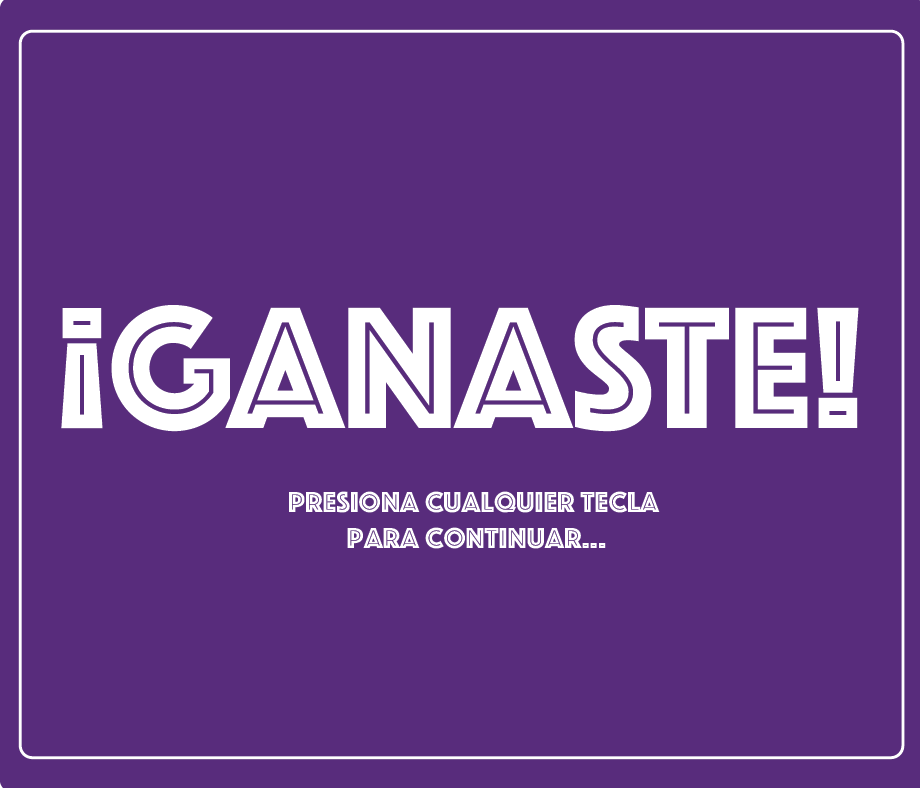
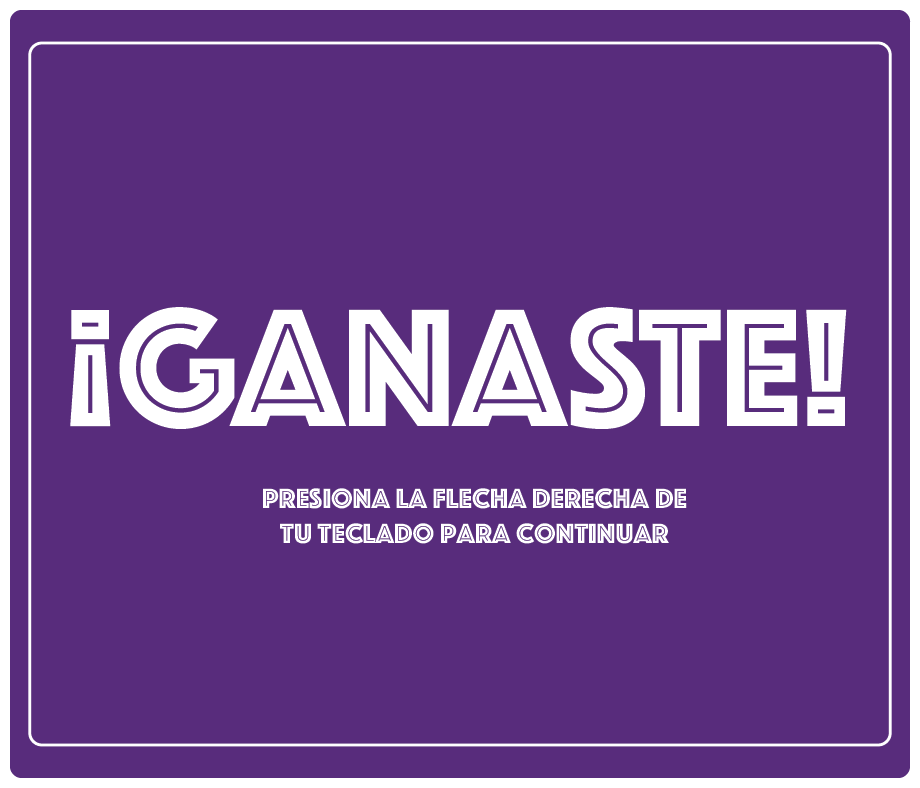
yippy kay yay MF

Changed region(s): [[0.0, 0.0, 1.0, 1.0], [0.2739, 0.6091, 0.7609, 0.7005]]

diff --git a/Proyecto_Final/Flood/src/Flood/SidePanel.java b/Proyecto_Final/Flood/src/Flood/SidePanel.java
@@ -40,6 +40,17 @@ public class SidePanel extends JPanel implements MouseListener {
     private Image imaImagenPausa;
     private Image imaImagenLevelUp;
     private Image imaImagenWonGame;
+    
+    //instrucciones
+    private Image imaInst1;
+    private Image imaInst2;
+    private Image imaInst3;
+    private Image imaInst4;
+    private Image imaInst5;
+    private Image imaInst6;
+    
+    
+    
 
     //Variables booleanas que indican si un botón fue presionado
     private boolean bHelp;
@@ -158,6 +169,26 @@ public class SidePanel extends JPanel implements MouseListener {
 
         imaImagenWonGame = Toolkit.getDefaultToolkit().getImage(this.getClass()
                 .getResource("Images/sidePanel/YouWon.png"));
+        
+        //imagen de instrucciones
+        
+        imaInst1 = Toolkit.getDefaultToolkit().getImage(this.getClass()
+                .getResource("Images/sidePanel/Instrucciones/1.png"));
+        
+        imaInst2 = Toolkit.getDefaultToolkit().getImage(this.getClass()
+                .getResource("Images/sidePanel/Instrucciones/2.png"));
+        
+        imaInst3 = Toolkit.getDefaultToolkit().getImage(this.getClass()
+                .getResource("Images/sidePanel/Instrucciones/3.png"));
+        
+        imaInst4 = Toolkit.getDefaultToolkit().getImage(this.getClass()
+                .getResource("Images/sidePanel/Instrucciones/4.png"));
+        
+        imaInst5 = Toolkit.getDefaultToolkit().getImage(this.getClass()
+                .getResource("Images/sidePanel/Instrucciones/5.png"));
+        
+        imaInst6 = Toolkit.getDefaultToolkit().getImage(this.getClass()
+                .getResource("Images/sidePanel/Instrucciones/6.png"));
     }
 
     /** creaBases
@@ -231,6 +262,13 @@ public class SidePanel extends JPanel implements MouseListener {
             graGrafico.drawImage(imaImagenNivel, iOffsetXimagen, iOffsetYimagen 
                     + 212, imaImagenNivel.getWidth(this), 
                             imaImagenNivel.getHeight(this), this);
+            
+            
+            
+            dibujaInstrucciones(graGrafico);
+            
+            
+            
         } else {
             //Da un mensaje mientras se carga el dibujo
             graGrafico.drawString("No se cargo la imagen..", 20, 20);
@@ -267,14 +305,19 @@ public class SidePanel extends JPanel implements MouseListener {
         }
 
         if (bLevelUp) {//el juego subio de nivel
+            
+      
             //banner cambio de nivel
             graGrafico.drawImage(imaImagenLevelUp, 0, 0, imaImagenPausa.
                     getWidth(this), imaImagenPausa.getHeight(this), this);
+            
         }
 
         if (bWonGame) {
             graGrafico.drawImage(imaImagenWonGame, 0, 0, 900, 788, this);
         }
+
+        
     }
 
     /***
@@ -338,6 +381,8 @@ public class SidePanel extends JPanel implements MouseListener {
         //cambiar imagen a desplegar
         imaImagenNivel = Toolkit.getDefaultToolkit().getImage(this.getClass()
                 .getResource("Images/sidePanel/nivel" + sNivel + ".png"));
+        
+        
     }
     /***
      * getHelp
@@ -395,6 +440,11 @@ public class SidePanel extends JPanel implements MouseListener {
 
             System.out.println("clicked menu");
         }
+        if (basNoPlay.intersects(iMouseX, iMouseY)) {//seguir jugando
+                bExit = false;//quitar banner
+                bPause = false;//quitar pausa
+                bBanner = true;//significa que no hay banner
+        }
     }
     
     /***
@@ -421,6 +471,48 @@ public class SidePanel extends JPanel implements MouseListener {
         graGrafico.setFont(fonFuentel);
         graGrafico.drawString(sQuestion, iOffsetX, iOffsetY);
     }
+    
+    void dibujaInstrucciones(Graphics graGrafico){
+        
+        if (tarGame.iNivel == 1) {
+
+            graGrafico.drawImage(imaInst1, 642, 334, 172, 169, this);
+
+        }
+
+        if (tarGame.iNivel == 2) {
+
+            graGrafico.drawImage(imaInst2, 642, 334, 172, 169, this);
+
+        }
+
+        if (tarGame.iNivel == 3) {
+
+            graGrafico.drawImage(imaInst3, 642, 350, 172, 169, this);
+
+        }
+
+        if (tarGame.iNivel == 4) {
+
+            graGrafico.drawImage(imaInst4, 642, 334, 172, 169, this);
+
+        }
+
+        if (tarGame.iNivel == 5) {
+
+            graGrafico.drawImage(imaInst5, 642, 334, 172, 169, this);
+
+        }
+
+        if (tarGame.iNivel == 6) {
+
+            graGrafico.drawImage(imaInst6, 642, 334, 172, 169, this);
+
+        }
+        
+    }
+            
+            
 
     public void mousePressed(MouseEvent e) {
     }
